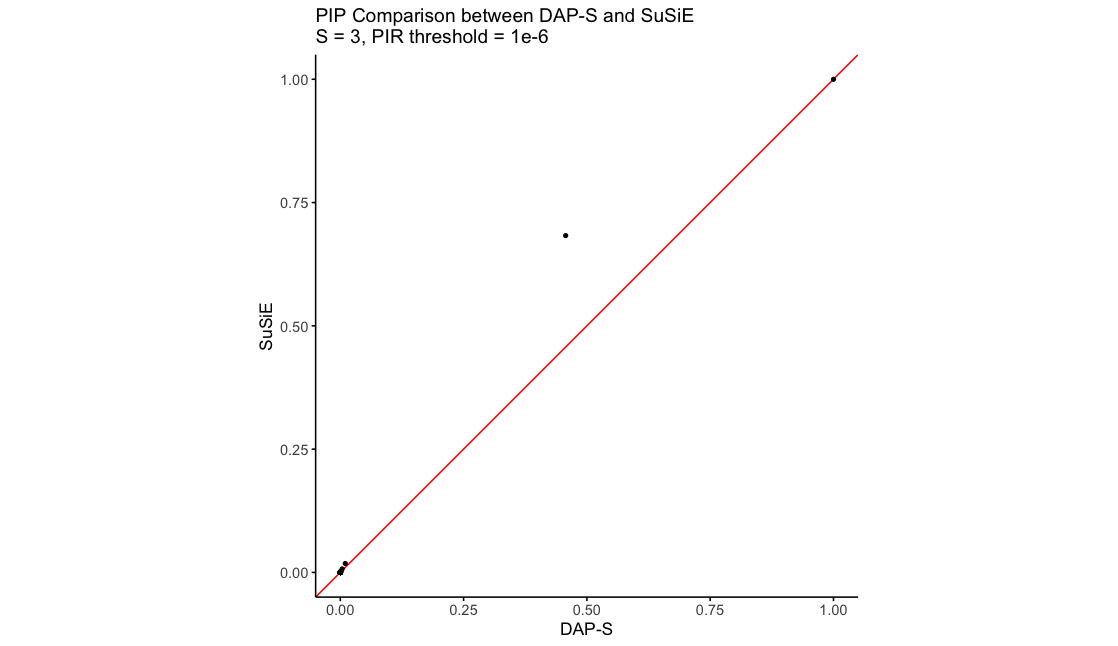
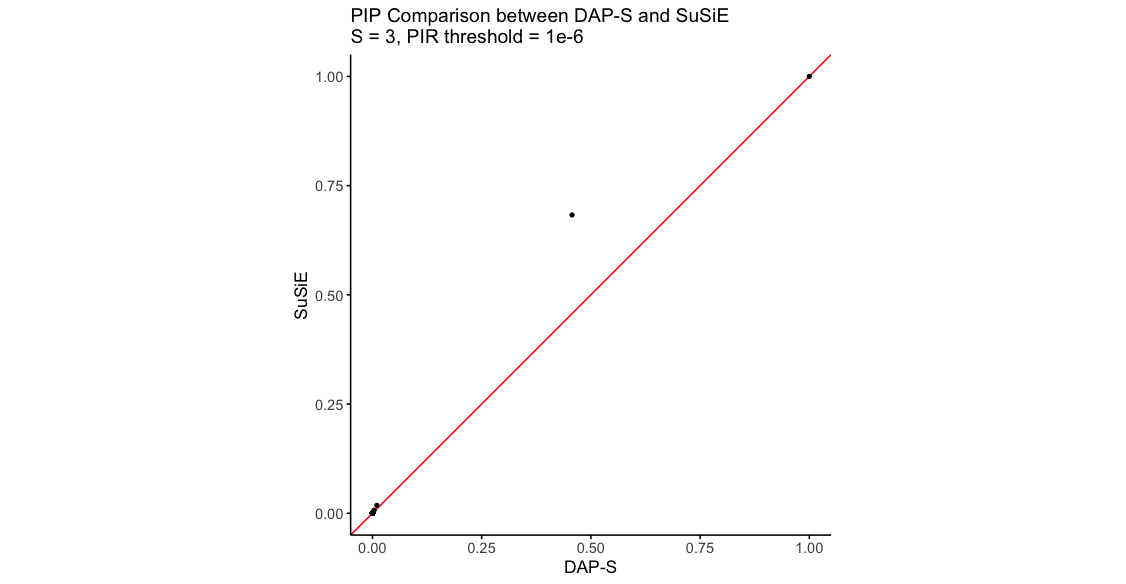
update

diff --git a/README.md b/README.md
@@ -26,7 +26,7 @@ library(dap)
 library(dap)
 library(susieR)
 library(ggplot2)
-set.seed(2025)
+set.seed(2024)
 n <- 1000
 p <- 5000
 tau <- 1
@@ -65,5 +65,5 @@ ggplot(data_all, aes(x = DAP, y = SuSiE)) +
   )
 ```
 <div style="text-align: center;">
-  <img src="simulation/plot_usage.png" alt="PIP Comparison Plot" width="577" height="374">
+  <img src="simulation/plot_usage.png" alt="PIP Comparison Plot" width="577" height="350">
 </div>
